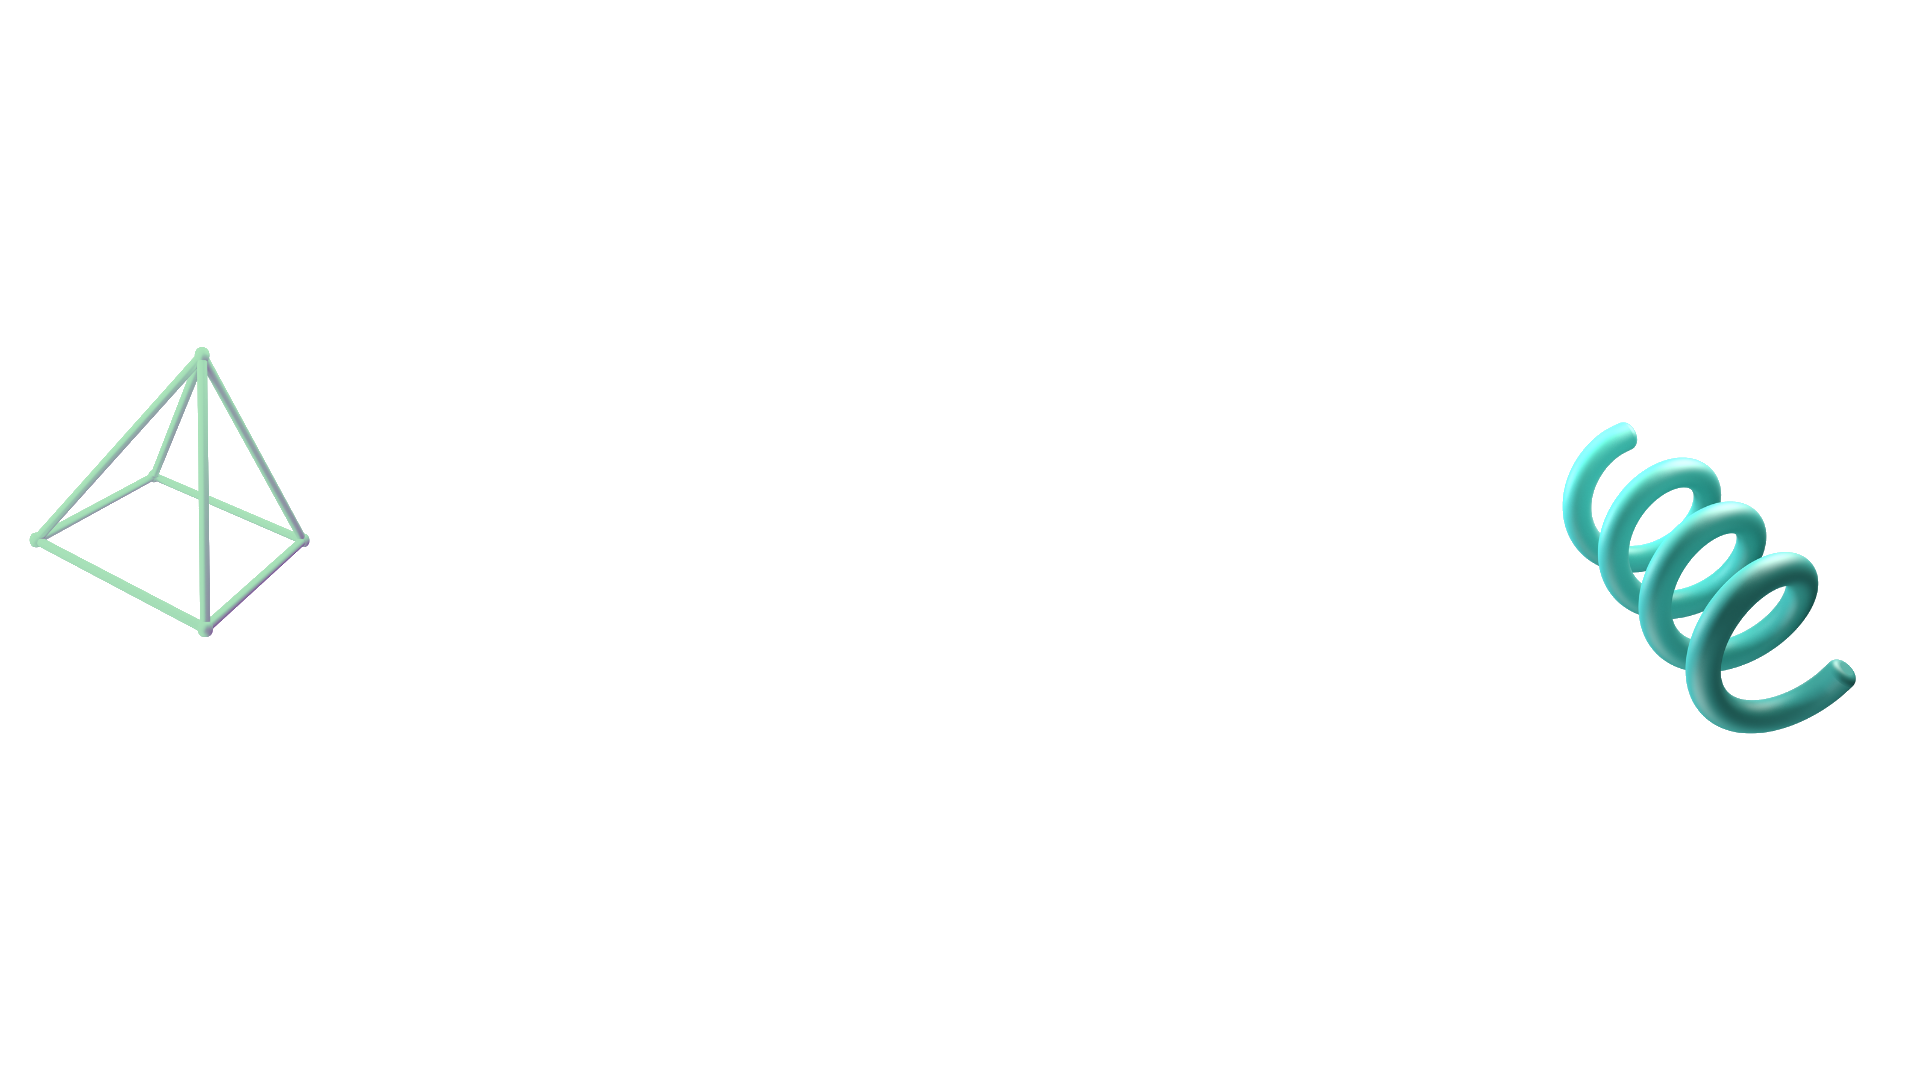
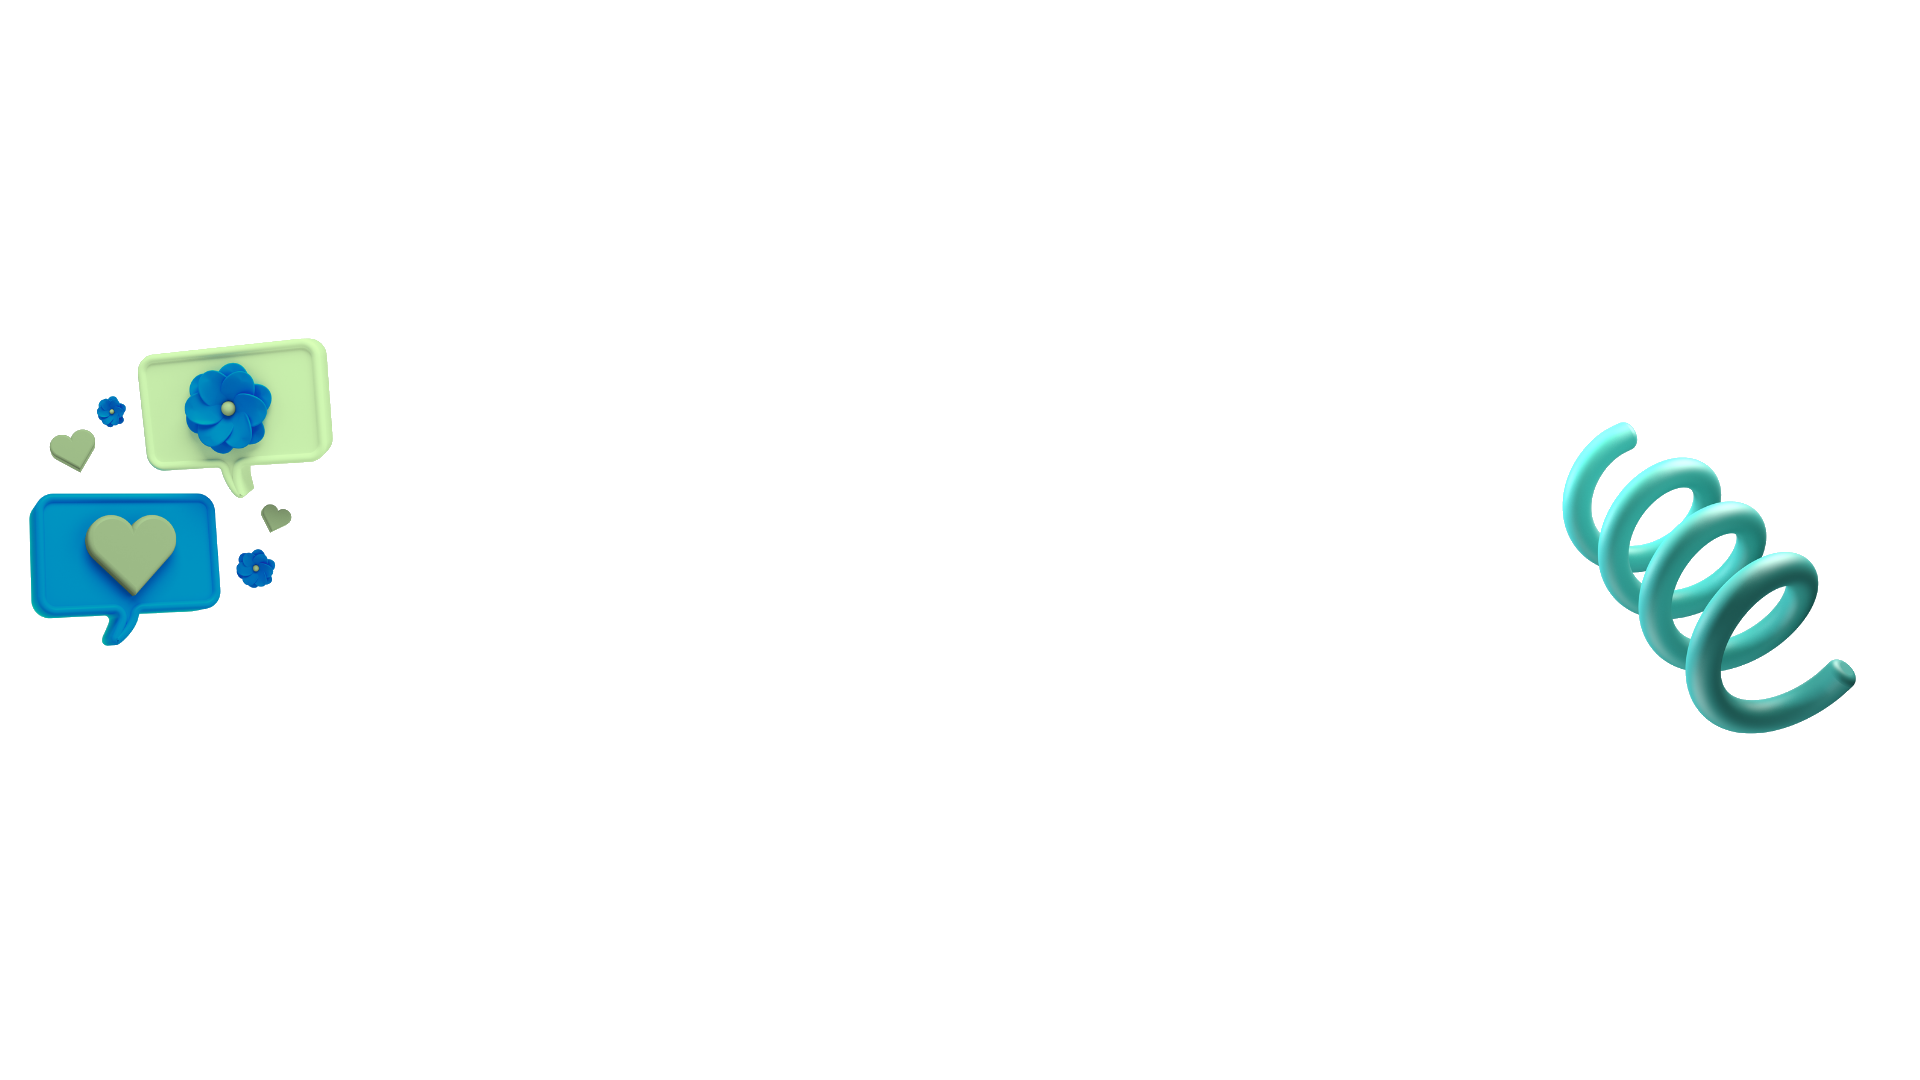
3d done, fixes must be done

Changed region(s): [[0.0, 0.3056, 0.1875, 0.6111]]

diff --git a/main.html b/main.html
@@ -16,16 +16,15 @@
         <a class="navbar-brand" href="#"><img src="logo.png" alt="Bootstrap" width="78" height="74"></a>
         <ul class="nav nav-pills ">
           <li class="nav-item">
-            <a class="nav-link " href="#scrollspyHeading1" style="color:white; font-weight:bold;"onmouseover="this.style.color='#9134D6'" onmouseout="this.style.color='black'">Start</a>
           </li>
           <li class="nav-item">
-            <a class="nav-link" href="#scrollspyHeading2" style="color:white; font-weight:bold;"onmouseover="this.style.color='#DD6E1D'" onmouseout="this.style.color='black'">Projects</a>
+            <a class="nav-link" href="#scrollspyHeading2" style="color:white; font-weight:bold;">Projects</a>
           </li>
           <li class="nav-item">
-            <a class="nav-link" href="#scrollspyHeading3" style="color:white; font-weight:bold;"onmouseover="this.style.color='#73BD3A'" onmouseout="this.style.color='black'">Tutoring</a>
+            <a class="nav-link" href="#scrollspyHeading3" style="color:white; font-weight:bold;">Tutoring</a>
           </li>
           <li class="nav-item">
-            <a class="nav-link" href="#scrollspyHeading4" style="color:white; font-weight:bold;"onmouseover="this.style.color='#27B29F'" onmouseout="this.style.color='black'">Contact</a>
+            <a class="nav-link" href="#scrollspyHeading4" style="color:white; font-weight:bold;">Contact</a>
           </li>
           <li class="nav-item">
             <a class="nav-link" style="color:white;  font-weight:bold;" onclick="window.open('https://drive.google.com/file/d/1I-I5ZW74Gj24DcNqsy46aV39p1I6rJ9p/view?usp=sharing', '_blank'); return false;">Résumé</a>
@@ -39,6 +38,10 @@
             <img src="icons.png" class="iconstop position-absolute top-50 start-50 translate-middle">
             <h1 class = "name">Hi, I'm Natalia Kusmirek.</h1>
             <h3 class = "dev"><i>Full Stack Developer, UI Designer, and Private Tutor.</i></h3>
+
+            <h5 class="mindenter position-absolute top-50 start-50 translate-middle"><svg xmlns="http://www.w3.org/2000/svg" width="16" height="16" fill="currentColor" class="bi bi-caret-down-fill" viewBox="0 0 16 16">
+              <path d="M7.247 11.14 2.451 5.658C1.885 5.013 2.345 4 3.204 4h9.592a1 1 0 0 1 .753 1.659l-4.796 5.48a1 1 0 0 1-1.506 0z"/>
+            </svg></h5>
         </div>
 
         <div class = "project_section">
@@ -138,11 +141,11 @@
         <div class = "tutor_section">
             <img src="purpleorb.png" class="orb2">
             <h2 id="scrollspyHeading3"><i>Private Tutoring</i></h2>
-            <img src = "tutoricon.png" class="tutoricon">
             <img src="tutorabout.png" class="tutorinfo">
-            <h3 id="projectex"><i>project example</i></h3>
-            <h3 id="learntex"><i>skills practiced</i></h3>
-            <img src="tutormodel.png" class = "tutormodel">  
+            <img src="tutormodel.png" class = "tutormodel">
+            <h3 id="projectex"><p id="number">71%</p><i>of new tech jobs are in computing.</i></h3>
+            <h3 id="learntex"><p id="number">90%</p><i>of parents want their child to pursue coding.</i></h3>
+            <img src="3dstudent.png" class="dstudent"> 
         </div>
 
         <div class = "contact_section" link="pink" alink="aqua" vlink="coral">
@@ -158,7 +161,12 @@
 
       
       <!--fix alignment, email submit, nav bar sticky, animations, alignment on different screen sizes-->
-
+    <script type="text/javascript">
+      window.addEventListener("scroll", function(){
+        var nav = document.querySelector("nav")
+        nav.classList.toggle("sticky", window.scrollY = 0);
+      })
+    </script>
     <script src="https://cdn.jsdelivr.net/npm/bootstrap@5.3.0-alpha1/dist/js/bootstrap.bundle.min.js" integrity="sha384-w76AqPfDkMBDXo30jS1Sgez6pr3x5MlQ1ZAGC+nuZB+EYdgRZgiwxhTBTkF7CXvN" crossorigin="anonymous"></script>
     
   

diff --git a/styles.css b/styles.css
@@ -4,21 +4,31 @@ body {
 
 #navbar-example2 {
   border-radius: 0 0 25px 25px;
-  position: sticky;
+  position: fixed;
 }
+#icon{
 
-.home_section {
+}
+nav.sticky
+{
+  padding: 5px 100px;
+  background: rgba(0,0,0,0.2);
+  
 }
 
 .iconstop
 {
   position: static;
-  width: 1100px;
+  width: 1150px;
   margin-top:-10px;
-  height: 600px;
+  height: 620px;
   
 }
-
+.home_section
+{
+  margin-top: 130px;
+  margin-bottom: 1115px;
+}
 .name {
    position: absolute;
   font-size: 39px;
@@ -38,7 +48,12 @@ body {
 
 
 }
-
+.mindenter
+{
+  color: white;
+  position: absolute;
+  margin-top: 310px;
+}
 .orb1
 {
   position: absolute;
@@ -57,7 +72,7 @@ body {
   margin-top: 1000px;
   width: 150px;
   position: static;
-  margin-bottom: 300px;
+  margin-bottom: 500px;
 }
 
 #scrollspyHeading2 {
@@ -86,10 +101,12 @@ body {
 }
 
 .carousel-caption {
-  top: 150px;
+  top: 160px;
   font-size: 15px;
   width: 420px;
   margin-left: 145px;
+  padding-top: 5px;
+  padding-bottom: 5px;
 }
 .carousel_item {
   height: 500px;
@@ -99,7 +116,7 @@ body {
   top: -500px;
   width: 360px;
   font-size: 18px;
-  margin-top: 10px;
+  margin-top: -15px;
   margin-left: 30px;
 }
 
@@ -191,30 +208,44 @@ body {
   height: 350px;
   margin-left: 880px;
   position: absolute;
-  margin-top: 740px;
+  margin-top: 440px;
 }
-.tutoricon
+
+.dstudent
 {
   position: absolute;
-  width: 400px;
-  height: 280px;
-  margin-left: 580px;
-  margin-top: 450px;
+  margin-left: 460px;
+  margin-top: 470px;
+  width: 590px;
+  height: 300px;
 }
-#projectex {
+#number
+{
+  font-size: 35px;
   font-family: "Times New Roman", Times, serif;
-  font-size: 23px;
+  color: white;
+
+}
+
+#projectex {
+  font-size: 15px;
   position: absolute;
-  margin-left: 990px;
-  margin-top: 790px;
+  margin-left: 1000px;
+  margin-top: 580px;
+  width: 120px;
+  margin-bottom: 0px;
+  color: rgb(107, 17, 17);
+
 }
 
 #learntex {
-  font-family: "Times New Roman", Times, serif;
-  font-size: 23px;
+  font-size: 15px;
   position: absolute;
-  margin-left: 1260px;
-  margin-top: 790px;
+  margin-left: 1270px;
+  margin-top: 580px;
+  width: 120px;
+  color: rgb(107, 17, 17);
+
 }
 
 .contact_section {
@@ -222,7 +253,7 @@ body {
   margin-left: 330px;
   width: 850px;
   position: absolute;
-  padding-bottom: 200px;
+  padding-bottom: 100px;
 }
 #scrollspyHeading4 {
   margin-top: 120px;
@@ -235,16 +266,15 @@ body {
   position: absolute;
   width: 670px;
   height: 400px;
-  margin-top:-150px;
+  margin-top:-100px;
 }
 
 #footer {
   position: absolute;
-  margin-top: 280px;
+  margin-top: 230px;
 }
 #email {
-margin-top: -90px;
-margin-bottom: 50px;
+margin-top: -30px;
 font-family: "Times New Roman", Times, serif;
 
 }
